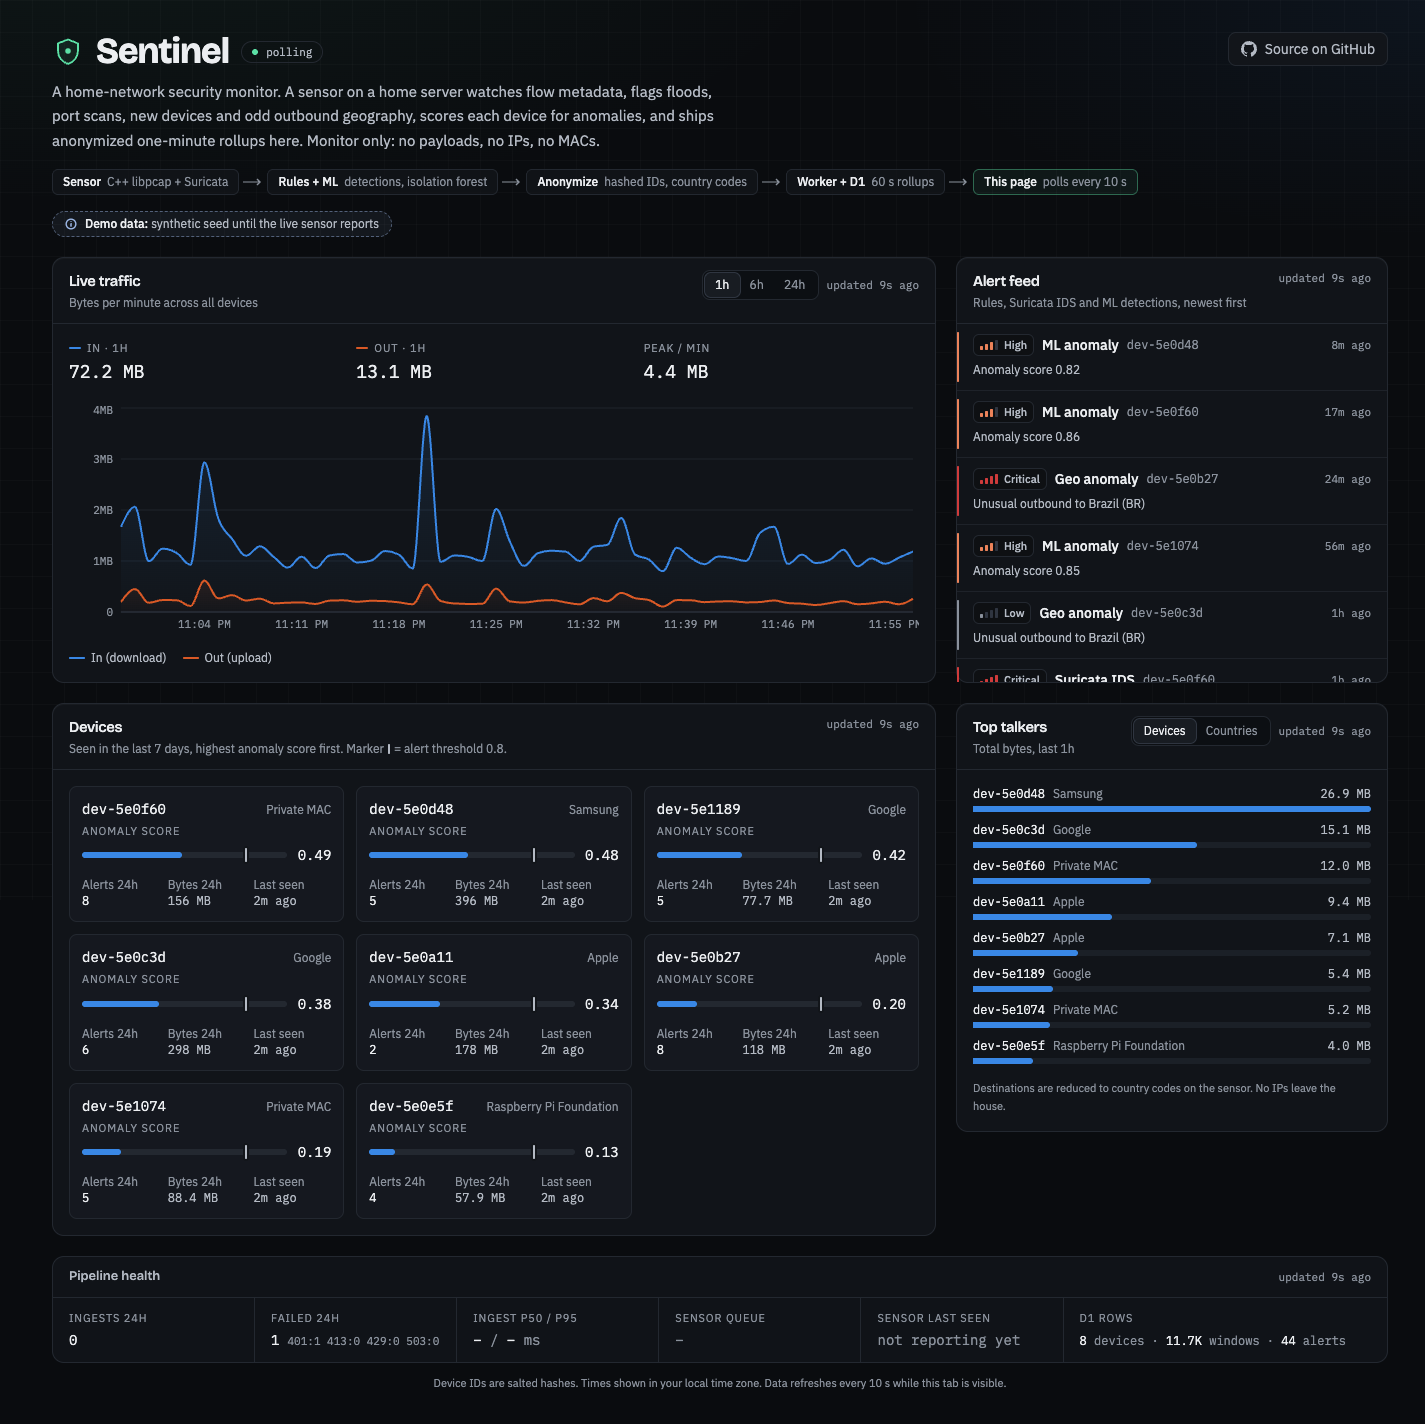
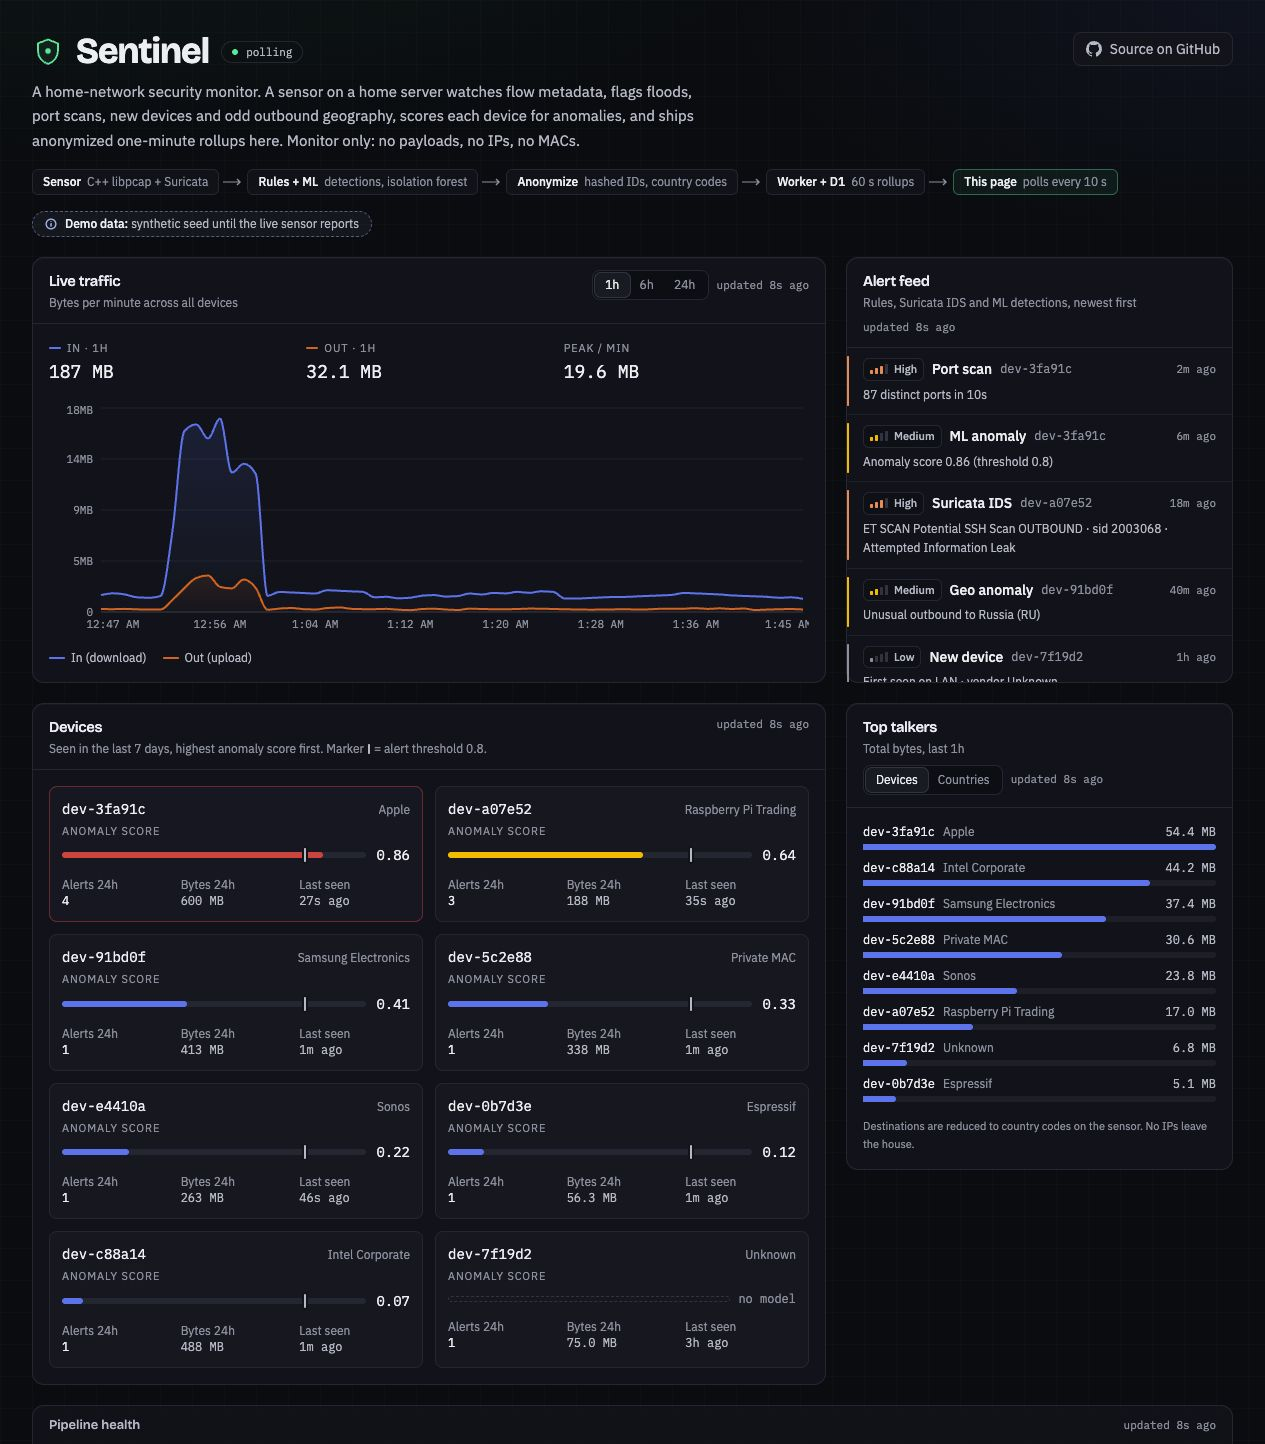
Refresh dashboard screenshots using synthetic preview data

diff --git a/README.md b/README.md
@@ -16,7 +16,7 @@ The home sensor reports live pseudonymized telemetry. Cloudflare Access restrict
 
 ![Sentinel dashboard, desktop](docs/images/dashboard-desktop.png)
 
-<sub>Desktop view of the live dashboard (synthetic demo data). A [mobile capture](docs/images/dashboard-mobile.png) is also in the repo.</sub>
+<sub>Desktop capture from the local synthetic-data preview, not the private production network. A [mobile capture](docs/images/dashboard-mobile.png) is also in the repo.</sub>
 
 ## Why I built this
 
